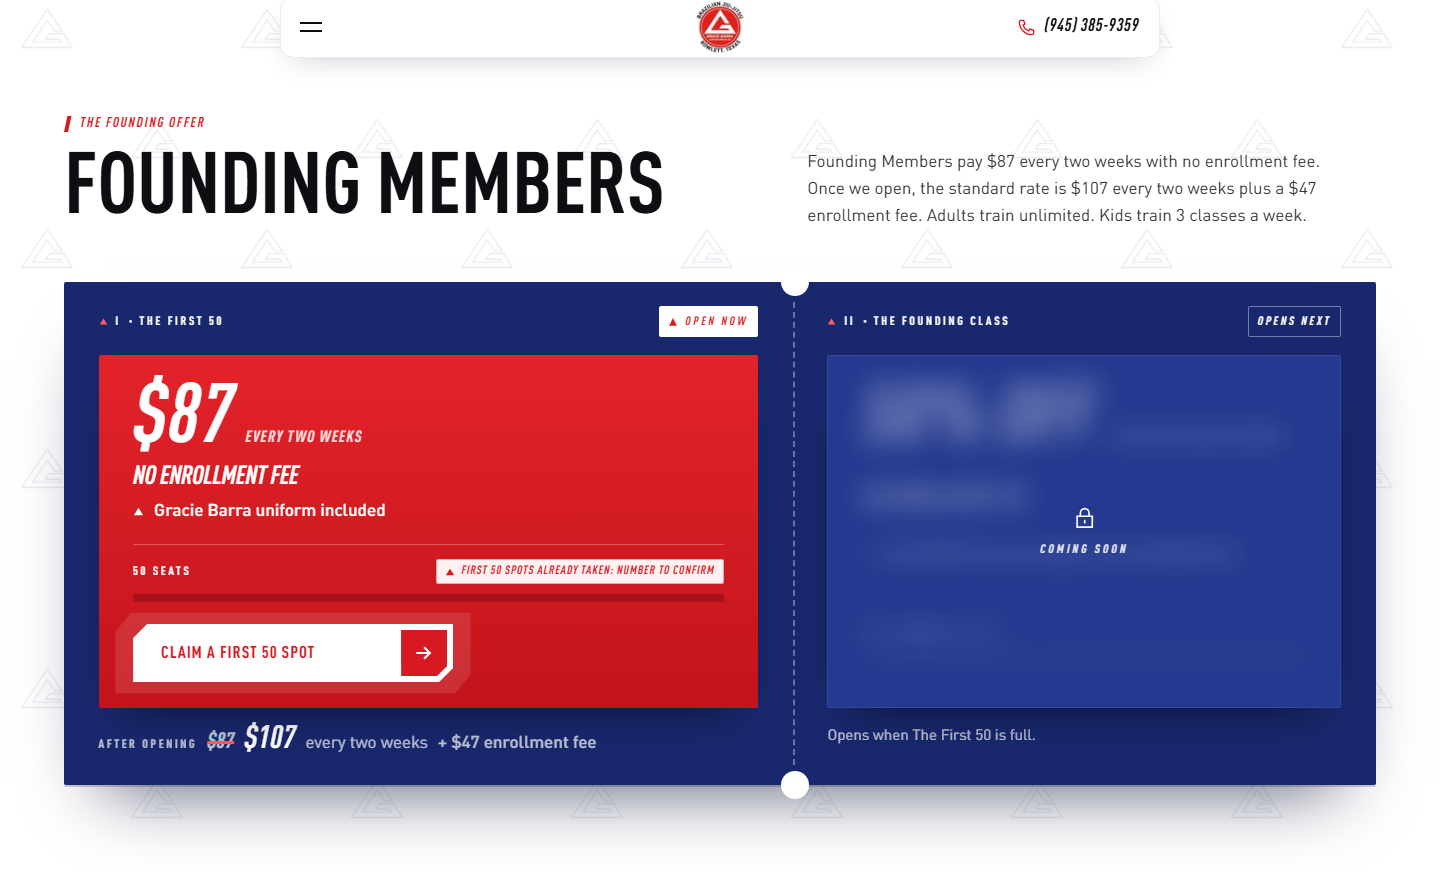
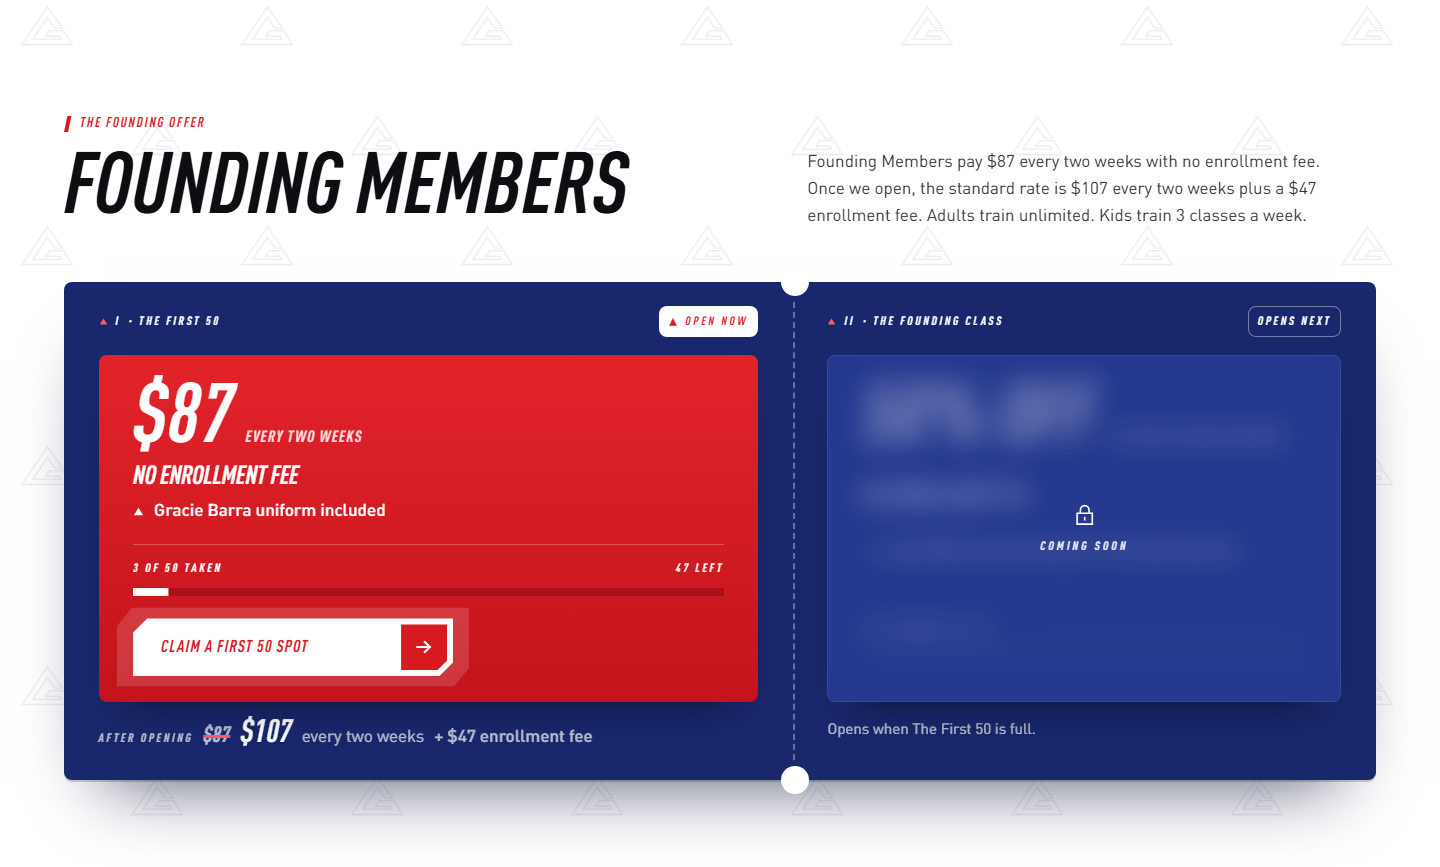
content(offer): 3 of the First 50 spots taken

diff --git a/src/data/site.ts b/src/data/site.ts
@@ -82,7 +82,7 @@ export const tiers: Tier[] = [
     order: 'I',
     label: 'The First 50',
     seats: 50,
-    claimed: null, // [CONFIRMAR] vagas já tomadas (§20 #2)
+    claimed: 3, // vagas já tomadas (Adryan, 9 out 2026); atualizar à mão conforme entram
     perk: { title: 'Gracie Barra uniform included', short: 'Uniform included' },
     perks: ['$87 every two weeks', 'No enrollment fee', 'Gracie Barra uniform included'],
     note: 'The first fifty people to join before the doors open.',
